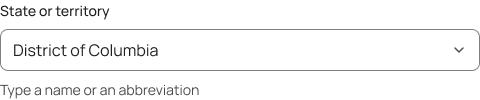
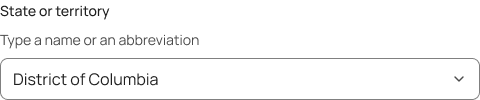
token-kit 0.3.28
Since v0.3.27:

- Planner service: a heartbeat and a move on the exchange's board
- Planner spike: v2 trained and calibrated; the planner briefing the canvas model wins
- Planner spike: data v2, calibration, a local planner service and the chat's switch
- Planner spike: Laya fine-tuned on the canvas plans, scored on the held-out 40
- Planner spike: Laya installed and scored untrained; its training data
- Planner spike, step one: a dataset of prompts and canvas plans, and the baseline
- Motion gate: decor that ends within five seconds owes the pause nothing
- Figma staleness by content, not by time
- Form fields: label, hint, error, then the control
- Evening: keep the day in the loop's history

diff --git a/src/react/primitives/Combobox.tsx b/src/react/primitives/Combobox.tsx
@@ -199,6 +199,8 @@ export function Combobox({
         {label}
         {required ? <RequiredMark /> : optional ? <span data-tk="field-optional"> (optional)</span> : null}
       </label>
+      {hint ? <p data-tk="field-hint" id={hintId}>{hint}</p> : null}
+      {error ? <FieldError id={errorId}>{error}</FieldError> : null}
       <div data-tk="combobox" data-kind={kind} data-chars={chars} data-open={expanded ? "" : undefined}>
         {kind === "search" ? <span data-tk="combobox-lead"><Icon name="search" size="sm" /></span> : null}
         <input
@@ -268,8 +270,6 @@ export function Combobox({
           {!shown.length ? <p data-tk="combobox-empty">{loading ? "Loading…" : emptyText}</p> : null}
         </div>
       </div>
-      {hint ? <p data-tk="field-hint" id={hintId}>{hint}</p> : null}
-      {error ? <FieldError id={errorId}>{error}</FieldError> : null}
       {name ? <input type="hidden" name={name} value={allowCustom ? (value ?? text) : value ?? ""} /> : null}
       <span data-tk="visually-hidden" role="status">{said}</span>
     </div>

diff --git a/src/react/primitives/FileUpload.tsx b/src/react/primitives/FileUpload.tsx
@@ -160,6 +160,9 @@ export function FileUpload({
         {label}
         {required ? <RequiredMark /> : optional ? <span data-tk="field-optional"> (optional)</span> : null}
       </label>
+      {hintText ? <p data-tk="field-hint" id={hintId}>{hintText}</p> : null}
+      {error ? <FieldError id={errorId}>{error}</FieldError> : null}
+      {disabled && reason ? <p data-tk="field-hint" id={reasonId}>{reason}</p> : null}
       <div data-tk="file-upload-zone" data-dropzone={dropzone && enhanced ? "" : undefined} data-dragging={dragging ? "" : undefined} {...drop}>
         <input
           ref={input}
@@ -192,9 +195,6 @@ export function FileUpload({
           </>
         ) : null}
       </div>
-      {hintText ? <p data-tk="field-hint" id={hintId}>{hintText}</p> : null}
-      {error ? <FieldError id={errorId}>{error}</FieldError> : null}
-      {disabled && reason ? <p data-tk="field-hint" id={reasonId}>{reason}</p> : null}
       {files.length ? (
         <ul data-tk="file-upload-list" ref={list}>
           {files.map((f, i) => (

diff --git a/src/react/primitives/Field.tsx b/src/react/primitives/Field.tsx
@@ -242,13 +242,15 @@ export function Field({
         {label}
         {required ? <RequiredMark /> : optional ? <span data-tk="field-optional"> (optional)</span> : null}
       </label>
-      {controlNode}
+      {/* Label, hint, error, then the control (GOV.UK and NHS: the error "above the field"), so the eye and a
+          screen magnifier reach what to type before the box; the count stays below it. */}
       {hint ? (
         <p data-tk="field-hint" id={hintId}>
           {hint}
         </p>
       ) : null}
       {error ? <FieldError id={errorId}>{error}</FieldError> : null}
+      {controlNode}
       {counts ? (
         <>
           {/* The visible count updates on every keystroke and is hidden from

diff --git a/src/react/primitives/InlineForm.tsx b/src/react/primitives/InlineForm.tsx
@@ -76,6 +76,12 @@ export function InlineForm({
       >
         {label}
       </label>
+      {hint ? (
+        <p data-tk="field-hint" id={hintId}>
+          {hint}
+        </p>
+      ) : null}
+      {error ? <FieldError id={errorId}>{error}</FieldError> : null}
       <div data-tk="inline-form-row">
         <input
           data-tk="input"
@@ -93,12 +99,6 @@ export function InlineForm({
           {submitLabel}
         </Button>
       </div>
-      {hint ? (
-        <p data-tk="field-hint" id={hintId}>
-          {hint}
-        </p>
-      ) : null}
-      {error ? <FieldError id={errorId}>{error}</FieldError> : null}
       {children}
     </form>
   );

diff --git a/figma/guidelines.md b/figma/guidelines.md
@@ -1,6 +1,6 @@
 # token-kit: library guidelines
 
-token-kit 0.3.27. A token-driven design system: components draw only from
+token-kit 0.3.28. A token-driven design system: components draw only from
 variables, so a brand, a density or dark mode is a change of variable mode,
 never a change to a component. Generated from the kit's own documentation,
 stories and component sources; the code is the original and Storybook shows
@@ -239,10 +239,14 @@ the next.
 - **Being open is `open` with a handler.** Modal and Drawer close with
   `onClose`; Search reports `onOpenChange(open)`. A new component that opens
   takes `open`, `defaultOpen` and `onOpenChange(open)`.
-- **A frame's order:** a single control is label, control, hint, error; a
-  group in a fieldset (ChoiceGroup, DateInput) is legend, hint, error, then
-  its options. Every error says "Error:" to a screen reader first, and every
-  required mark is the same (`field-parts.tsx`).
+- **A frame's order is label, hint, error, then the control** (a group's
+  legend, hint, error, then its options), and a character count below the
+  control. GOV.UK and NHS put the error "above the field"; Carbon, Paste and
+  PatternFly put help and errors below. The kit follows the first, as its
+  error summary and fieldsets already did: what to type, and what went wrong,
+  come before the box, for the eye and for a screen magnifier. Every error
+  says "Error:" to a screen reader first, and every required mark is the
+  same (`field-parts.tsx`).
 
 A deprecated name works until the next minor release, which removes it; a
 patch never does.

diff --git a/docs/03-composition.md b/docs/03-composition.md
@@ -110,10 +110,14 @@ the next.
 - **Being open is `open` with a handler.** Modal and Drawer close with
   `onClose`; Search reports `onOpenChange(open)`. A new component that opens
   takes `open`, `defaultOpen` and `onOpenChange(open)`.
-- **A frame's order:** a single control is label, control, hint, error; a
-  group in a fieldset (ChoiceGroup, DateInput) is legend, hint, error, then
-  its options. Every error says "Error:" to a screen reader first, and every
-  required mark is the same (`field-parts.tsx`).
+- **A frame's order is label, hint, error, then the control** (a group's
+  legend, hint, error, then its options), and a character count below the
+  control. GOV.UK and NHS put the error "above the field"; Carbon, Paste and
+  PatternFly put help and errors below. The kit follows the first, as its
+  error summary and fieldsets already did: what to type, and what went wrong,
+  come before the box, for the eye and for a screen magnifier. Every error
+  says "Error:" to a screen reader first, and every required mark is the
+  same (`field-parts.tsx`).
 
 A deprecated name works until the next minor release, which removes it; a
 patch never does.
